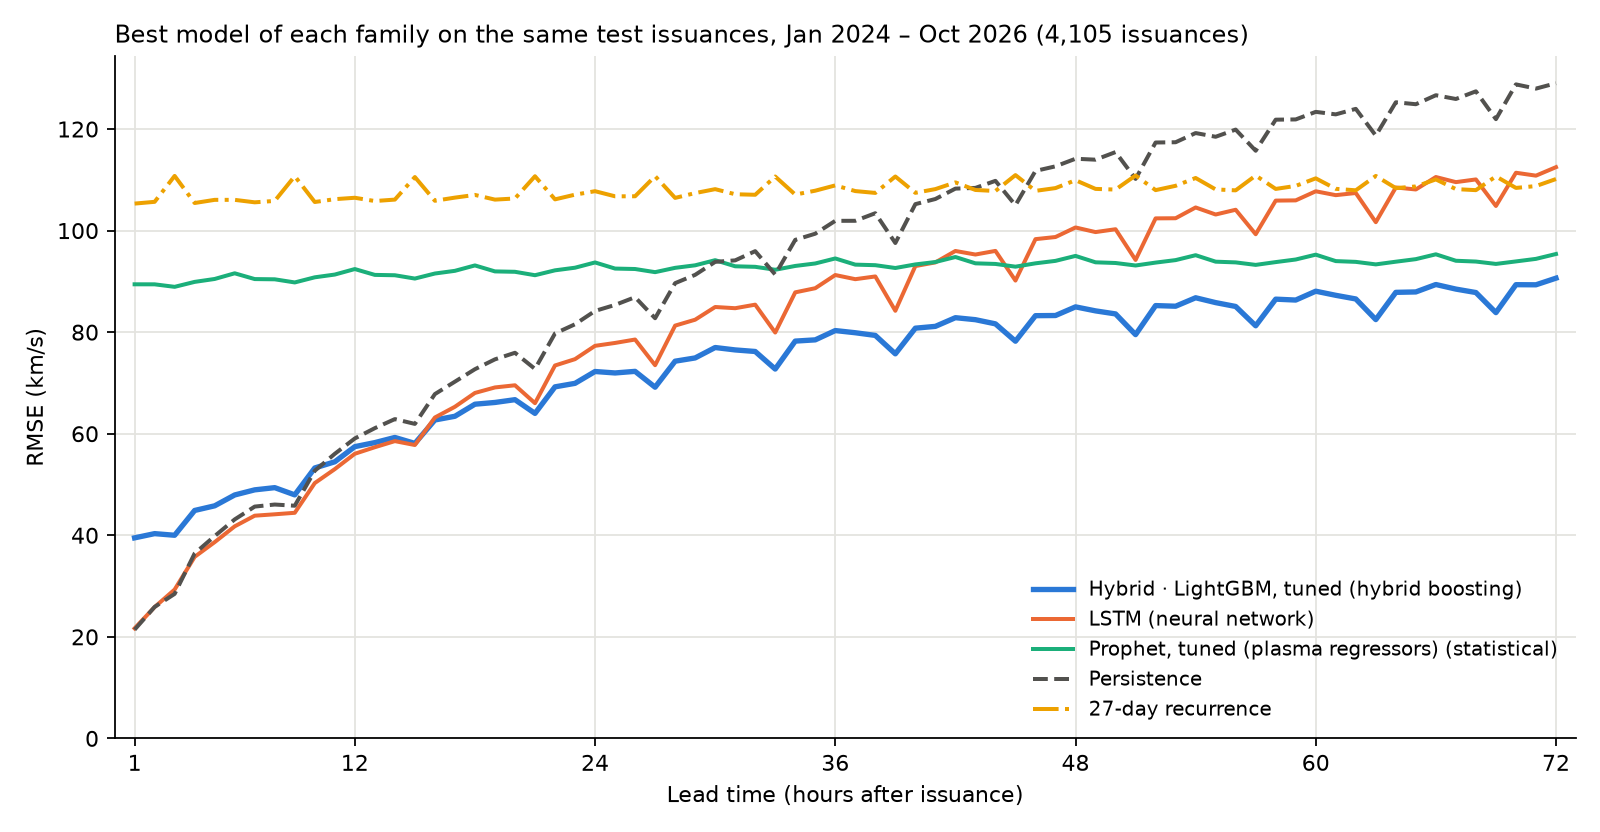
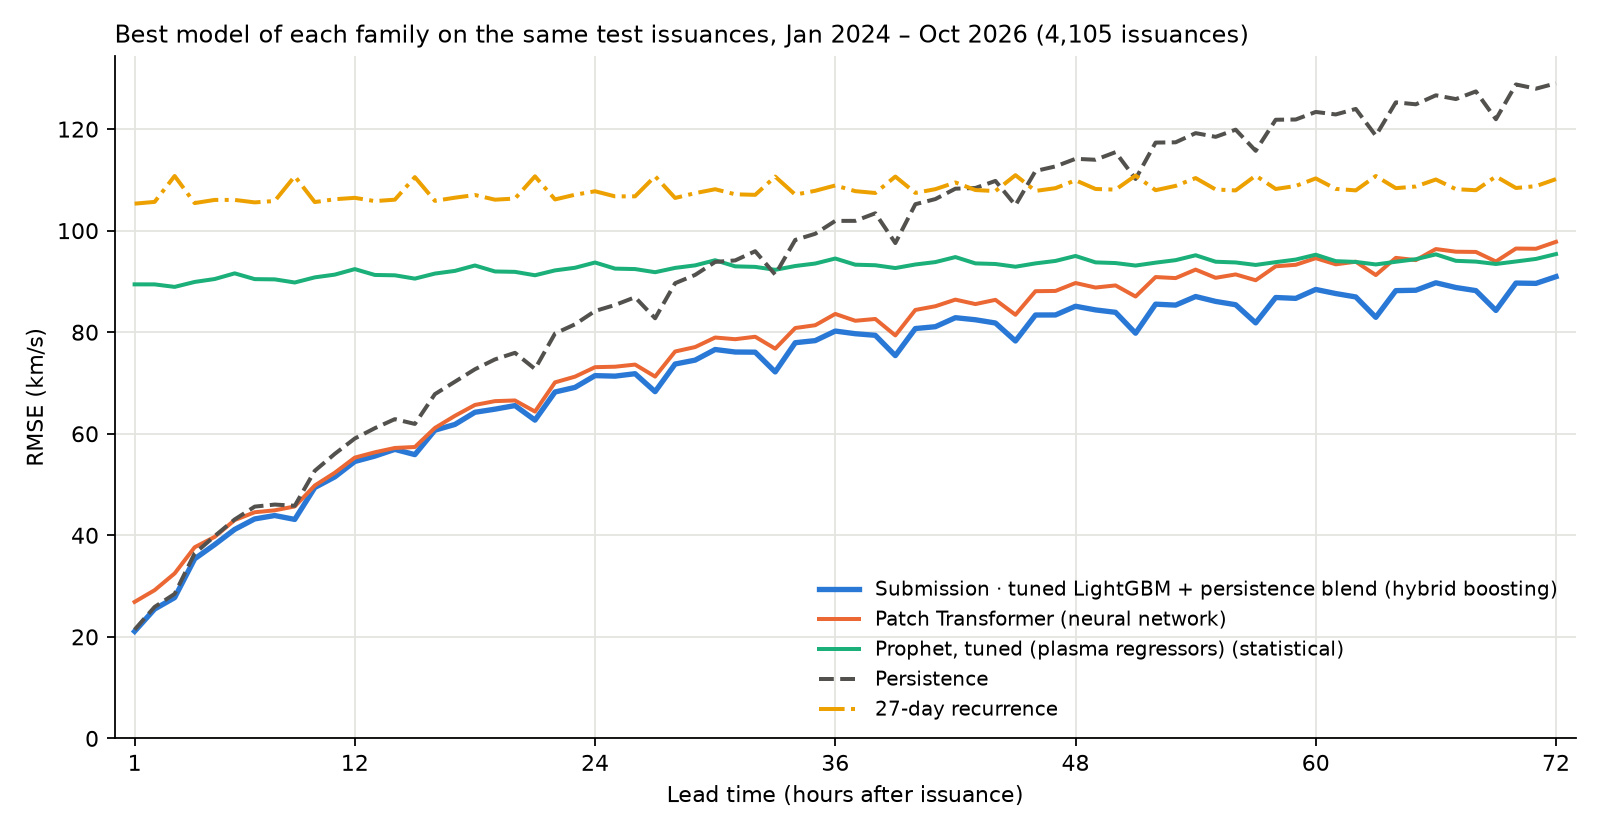
Benchmark with networks retrained on 2011–2021 and the submitted blend; add container test script

diff --git a/README.md b/README.md
@@ -26,25 +26,23 @@ training or selection.
 
 | Model | Family | Trained on | RMSE (km/s) | 1–24 h | 25–48 h | 49–72 h | Skill vs persistence | TIMSE pooled (M) | TIMSE median per issuance (k) |
 | --- | --- | --- | ---: | ---: | ---: | ---: | ---: | ---: | ---: |
-| **Hybrid · LightGBM, tuned** | Hybrid boosting | 2011–2021 | **75.3** | 57.3 | 78.7 | 86.7 | +23.1% | 74.6 | 358 |
+| **Submission · tuned LightGBM + persistence blend** | Hybrid boosting | 2011–2021 | **74.4** | 53.7 | 78.5 | 87.0 | +23.9% | 70.6 | 326 |
+| Hybrid · LightGBM, tuned | Hybrid boosting | 2011–2021 | 75.3 | 57.3 | 78.7 | 86.7 | +23.1% | 74.6 | 358 |
 | Hybrid · XGBoost | Hybrid boosting | 2011–2021 | 75.7 | 56.7 | 79.5 | 87.6 | +22.6% | 72.2 | 369 |
 | Hybrid · scikit-learn HGB | Hybrid boosting | 2011–2021 | 76.0 | 57.0 | 79.7 | 87.9 | +22.3% | 74.4 | 375 |
 | Hybrid · LightGBM | Hybrid boosting | 2011–2021 | 76.3 | 56.9 | 80.1 | 88.4 | +22.0% | 75.2 | 372 |
 | Hybrid · CatBoost | Hybrid boosting | 2011–2021 | 76.4 | 57.7 | 79.9 | 88.3 | +21.9% | 72.2 | 380 |
 | Hybrid · NGBoost | Hybrid boosting | 2011–2021 | 77.5 | 57.7 | 81.2 | 90.0 | +20.7% | 77.4 | 386 |
+| Patch Transformer | Neural network | 2011–2021 | 78.4 | 55.1 | 81.9 | 93.3 | +19.9% | 71.5 | 325 |
 | Hybrid · LightGBM, tuned, no coronal holes | Hybrid boosting | 2011–2021 | 78.6 | 58.0 | 82.4 | 91.7 | +19.6% | 81.7 | 343 |
-| LSTM | Neural network | 2019 | 86.5 | 56.2 | 89.5 | 106.2 | +11.6% | 73.8 | 384 |
-| GRU | Neural network | 2019 | 86.6 | 55.7 | 89.3 | 106.8 | +11.5% | 73.5 | 392 |
-| Transformer | Neural network | 2003–2009 | 88.3 | 60.6 | 90.7 | 107.3 | +9.7% | 62.6 | 445 |
-| Transformer | Neural network | 2019 | 89.1 | 62.4 | 90.8 | 108.1 | +8.9% | 78.6 | 506 |
-| Patch Transformer | Neural network | 2019 | 91.6 | 70.7 | 93.0 | 107.3 | +6.4% | 77.4 | 526 |
+| GRU | Neural network | 2011–2021 | 80.2 | 53.5 | 83.3 | 97.3 | +18.1% | 74.8 | 315 |
+| LSTM | Neural network | 2011–2021 | 80.7 | 53.9 | 83.9 | 98.0 | +17.5% | 75.5 | 318 |
+| Transformer | Neural network | 2011–2021 | 81.3 | 55.8 | 84.7 | 97.7 | +16.9% | 76.6 | 326 |
+| GRU with attention | Neural network | 2011–2021 | 83.0 | 57.2 | 86.0 | 100.0 | +15.2% | 80.1 | 370 |
+| LSTM with attention | Neural network | 2011–2021 | 84.0 | 57.8 | 87.0 | 101.2 | +14.2% | 76.2 | 378 |
 | Prophet, tuned (plasma regressors) | Statistical | 180 days before each issuance | 93.0 | 91.3 | 93.4 | 94.2 | +5.0% | 74.2 | 712 |
 | Prophet | Statistical | 180 days before each issuance | 96.8 | 96.5 | 96.9 | 97.1 | +1.0% | 105.9 | 640 |
-| GRU with attention | Neural network | 2003–2009 | 96.9 | 71.0 | 99.8 | 114.8 | +0.9% | 64.0 | 552 |
 | Persistence | Baseline | — | 97.8 | 60.2 | 100.8 | 122.2 | +0.0% | 64.0 | 556 |
-| GRU with attention | Neural network | 2019 | 104.8 | 78.6 | 109.3 | 121.9 | -7.2% | 85.9 | 953 |
-| LSTM with attention | Neural network | 2019 | 105.4 | 79.8 | 108.3 | 123.4 | -7.7% | 92.1 | 953 |
-| Patch Transformer | Neural network | 2003–2009 | 106.3 | 80.9 | 109.7 | 123.8 | -8.7% | 50.1 | 695 |
 | 27-day recurrence | Baseline | — | 107.8 | 106.5 | 108.0 | 108.8 | -10.2% | 59.9 | 928 |
 | Hybrid · XGBoost, TIMSE weights | Hybrid boosting | 2011–2021 | 108.8 | 90.7 | 112.6 | 120.9 | -11.2% | 49.2 | 729 |
 
@@ -52,33 +50,56 @@ Lead-time columns are RMSE in km/s. Skill is the RMSE reduction against persiste
 
 ![RMSE by lead time of the best model of each family](docs/figures/benchmark_rmse_by_lead.png)
 
-- The tuned LightGBM hybrid has the lowest RMSE: 23% below persistence overall and 30%
-  below at 72 h (91 vs 129 km/s).
-- In the first day the simple models are hard to beat. Persistence wins during the first
-  ~10 h, and the LSTM and GRU are slightly better than the hybrid over 1–24 h
-  (56 vs 57 km/s). After ~24 h the hybrid leads at every lead.
+- The submitted forecast (tuned LightGBM hybrid blended with persistence) has the lowest
+  RMSE, 74.4 km/s: 24% below persistence. The blend mostly helps the first day
+  (57.3 → 53.7 km/s over 1–24 h).
+- The neural networks retrained on the hybrid's splits are close in the first day: the
+  GRU (53.5 km/s) matches the submission over 1–24 h. They fall behind at long leads
+  (93–101 km/s at 49–72 h, against 87), where the coronal-hole features matter. The
+  Patch Transformer, whose 30-day input reaches the 27-day recurrence, is the best
+  network (78.4 km/s).
 - All five boosting libraries land within 2 km/s of each other. The coronal-hole
   features are worth 3.4 km/s overall (95% CI 1.4–5.5) and 5.5 km/s at 72 h.
-- Prophet is flat across leads: weak early, but better than every neural network at
-  49–72 h.
+- Prophet is flat across leads: weak early, close to the networks at 49–72 h.
 - **A caveat on TIMSE:** pooled over the whole period, it rewards forecasts biased
-  upwards. That is why the TIMSE-weighted hybrid and the 2003–2009 Patch Transformer
-  have the best pooled TIMSE with some of the worst RMSEs, and why a constant 700 km/s
-  (42.1 M) beats every model. Scored per issuance (last column), the bias stops paying.
-  How the organizers aggregate TIMSE is still to be confirmed.
+  upwards. That is why the TIMSE-weighted hybrid has the best pooled TIMSE with the worst
+  RMSE, and why a constant 700 km/s (42.1 M) beats every model. Scored per issuance (last
+  column), the bias stops paying. How the organizers aggregate TIMSE is still to be
+  confirmed.
 
 How to read the comparison:
 
-- **Training data differs.** The hybrids were trained on 2011–2021. The neural networks
-  are the saved checkpoints of earlier experiments, trained on 2019 or on 2003–2009
-  (validation 2008–2009), and were not retrained here. Retraining them on 2011–2021
-  would make the comparison stricter.
+- **Same training period.** Hybrids and networks were trained on 2011–2021 and selected
+  on 2022 to 2023. The networks' validation stops on 9 Nov 2023, because their code
+  refuses to skip the issuance left without data by an ACE gap on 10 Nov 2023
+  (`scripts/slurm/train_networks.sbatch`). Their hyperparameters are those of the
+  earlier 2019 experiments and were not tuned again.
 - **Inputs.** Neural networks and Prophet read the real-time ACE product, as they would
   in operations. The hybrids read Level 2 where available (until July 2024) and the
   real-time product afterwards. Using the real-time product alone changes the hybrid's
   RMSE from 76.0 to 76.2 km/s.
 - Prophet is refit at every issuance on the previous 180 days, with the configuration
   selected in [docs/tuning.md](docs/tuning.md).
+
+<details>
+<summary>Earlier network checkpoints, trained on 2019 or 2003–2009 only</summary>
+
+| Model | Family | Trained on | RMSE (km/s) | 1–24 h | 25–48 h | 49–72 h | Skill vs persistence | TIMSE pooled (M) | TIMSE median per issuance (k) |
+| --- | --- | --- | ---: | ---: | ---: | ---: | ---: | ---: | ---: |
+| LSTM | Neural network | 2019 | 86.5 | 56.2 | 89.5 | 106.2 | +11.6% | 73.8 | 384 |
+| GRU | Neural network | 2019 | 86.6 | 55.7 | 89.3 | 106.8 | +11.5% | 73.5 | 392 |
+| Transformer | Neural network | 2003–2009 | 88.3 | 60.6 | 90.7 | 107.3 | +9.7% | 62.6 | 445 |
+| Transformer | Neural network | 2019 | 89.1 | 62.4 | 90.8 | 108.1 | +8.9% | 78.6 | 506 |
+| Patch Transformer | Neural network | 2019 | 91.6 | 70.7 | 93.0 | 107.3 | +6.4% | 77.4 | 526 |
+| GRU with attention | Neural network | 2003–2009 | 96.9 | 71.0 | 99.8 | 114.8 | +0.9% | 64.0 | 552 |
+| GRU with attention | Neural network | 2019 | 104.8 | 78.6 | 109.3 | 121.9 | -7.2% | 85.9 | 953 |
+| LSTM with attention | Neural network | 2019 | 105.4 | 79.8 | 108.3 | 123.4 | -7.7% | 92.1 | 953 |
+| Patch Transformer | Neural network | 2003–2009 | 106.3 | 80.9 | 109.7 | 123.8 | -8.7% | 50.1 | 695 |
+
+With less training data they are 6 to 28 km/s worse than the same architectures
+retrained on 2011–2021.
+
+</details>
 
 To reproduce, run `scripts/benchmark_all_models.py` (about 10 min on 8 cores) and then
 `scripts/plot_benchmark.py`. Results go to `data/experiments/benchmark_2024_2026/`.
